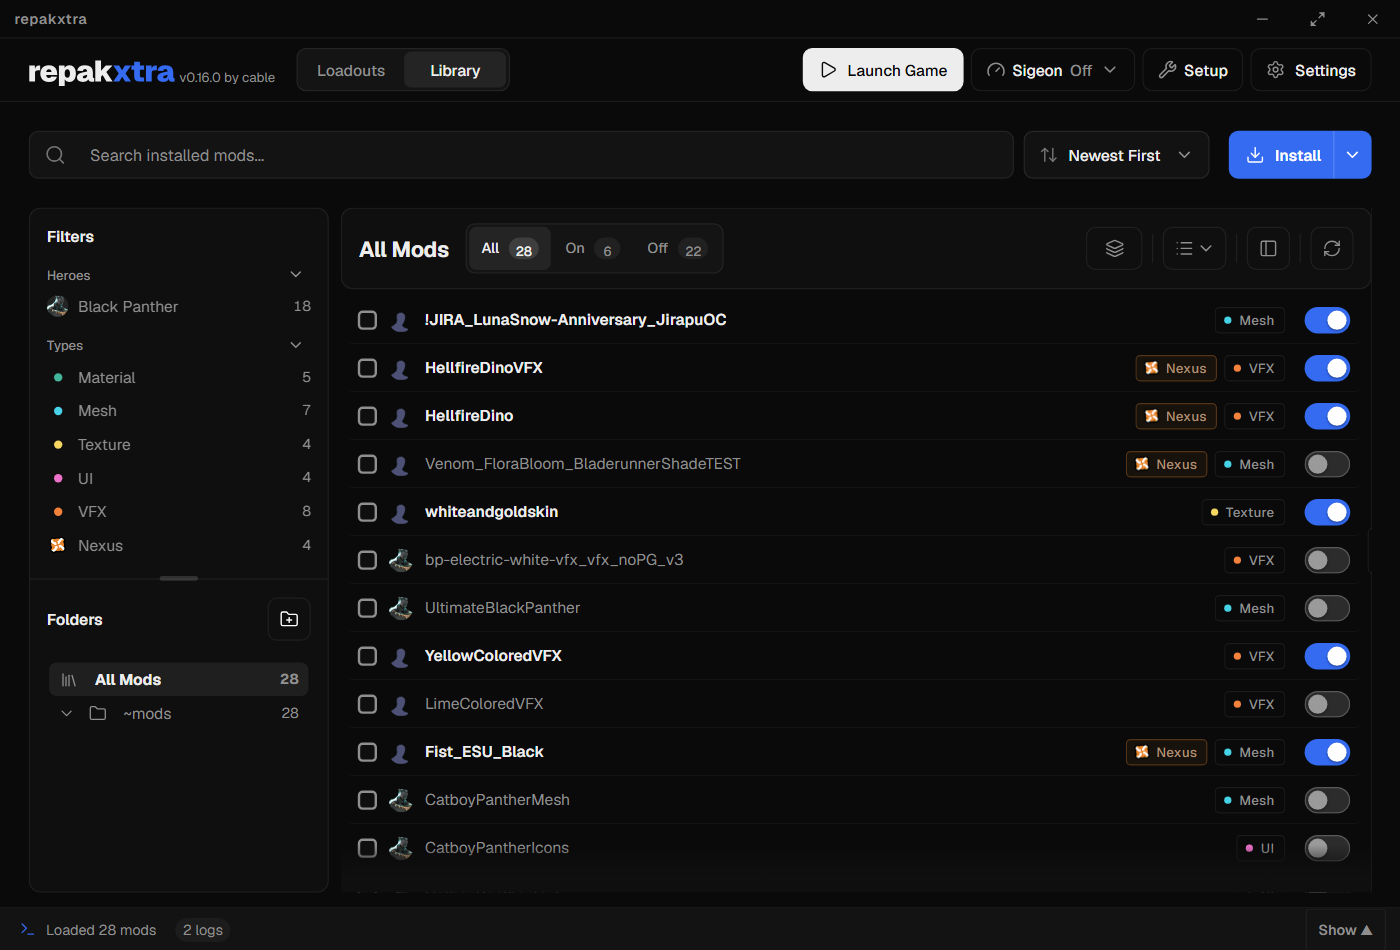
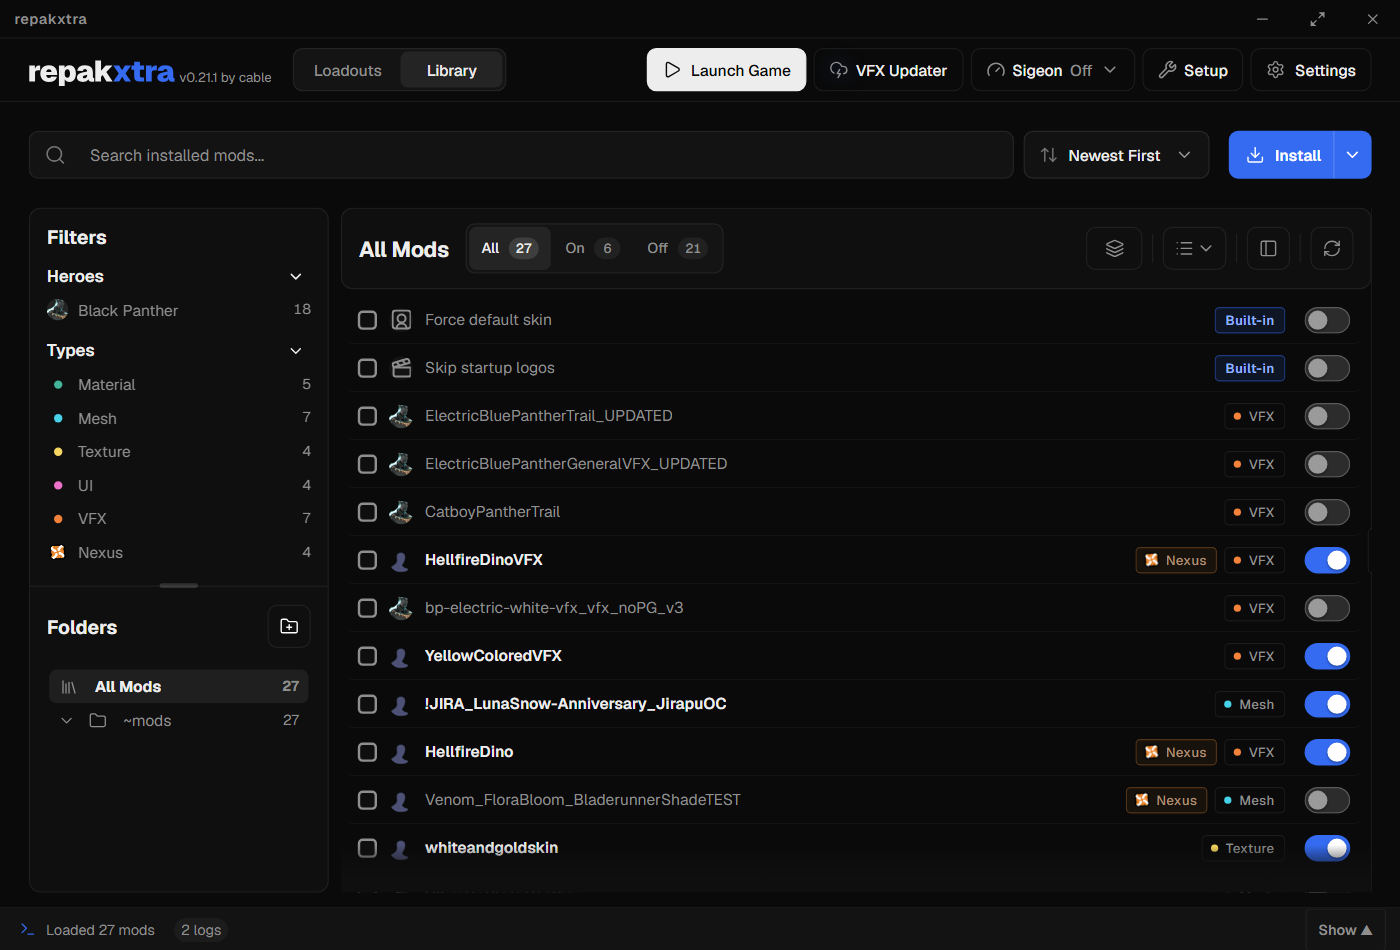
repakxtra 0.22.0: blue Add .utoc and a one-line VFX footer, Daredevil silhouette on install, centered count pills, built-ins shown, batch VFX guide (#42)
- VFX Updater: Add .utoc is blue with the Install icon, the time estimate sits beside the buttons, Check is now Scan,
  Copied stays 3 s
- Filters: Heroes and Types headers 14px, Filters and Folders titles 16px, above the 13px filters
- Toasts break long mod names inside the text column
- Count pills trim their line to cap height, so digits sit centered at any size
- Install card: a mod of a hero's base model (xxxx001, never in the hero data) finds its hero from its one hero folder,
  and the silhouette lookup also reads the app's current hero list (Daredevil was missing from the bundled one)
- Enter in the install card's name fields saves and leaves the field
- Copy setup report shows Copied for 3 s
- Built-in mods are shown by default
- README: How to batch update VFX mods, with a new GIF, and every screenshot and GIF regenerated

diff --git a/repak-x/src/custom/theme.css b/repak-x/src/custom/theme.css
@@ -219,7 +219,7 @@ button, input, select, textarea, .MuiButton-root { font-family: inherit !importa
 .filter-panel { display: flex; flex-direction: column; gap: 1px; }
 /* The head keeps one height (30px, room for Clear) with or without it, so picking a filter never moves the list under it */
 .fp-head { display: flex; align-items: center; justify-content: space-between; min-height: 30px; padding: 0 6px 6px; box-sizing: border-box; }
-.fp-title, .sidebar-header h3 { font-size: 13px !important; font-weight: 600 !important; color: var(--text-primary) !important; }
+.fp-title, .sidebar-header h3 { font-size: 16px !important; font-weight: 700 !important; color: var(--text-primary) !important; }   /* the panel titles, above the 14px Heroes and Types headers and the 13px filters */
 /* Clear: a small quiet pill (the app's 36px button floor made it a tall grey block) */
 .fp-clear { display: inline-flex !important; align-items: center; gap: 4px; height: 22px !important; min-height: 0 !important; padding: 0 9px !important;
   border: 1px solid var(--panel-border) !important; border-radius: 999px !important; background: transparent !important;
@@ -230,8 +230,8 @@ button, input, select, textarea, .MuiButton-root { font-family: inherit !importa
    the hero rows' skin chevrons, turned down while open */
 .fp-section-btn { display: flex !important; align-items: center; gap: 6px; width: 100%; height: auto !important; min-height: 0 !important;
   margin: 0 !important; border: none !important; border-radius: 6px !important; background: transparent !important; cursor: pointer;
-  color: var(--text-secondary) !important; font-size: 11px !important; font-weight: 500 !important; text-align: left; justify-content: flex-start !important; }
-.fp-section-btn:hover { color: var(--text-primary) !important; }
+  color: var(--text-primary) !important; font-size: 14px !important; font-weight: 600 !important; text-align: left; justify-content: flex-start !important; }   /* a step above the 13px filters under it */
+.fp-section-btn:hover { background: var(--quiet-hover) !important; }   /* already white, so hover shows as the rows' wash */
 .fp-section-caret { margin-left: auto; margin-right: 5px; transition: transform var(--acc-chevron, 150ms) var(--acc-ease, ease); }
 .fp-section-btn[aria-expanded="true"] .fp-section-caret { transform: rotate(90deg); }
 .fp-section-picked { padding: 0 6px; border-radius: 999px; background: var(--quiet-active); color: var(--text-primary); font-size: 10.5px; line-height: 16px; }
@@ -1970,6 +1970,7 @@ html[data-motion="off"] .t-matrix i { animation: none; opacity: 0.6; }
 /* Toasts: wider, so a title and an action fit on one line */
 .toast-container { width: 480px !important; max-width: calc(100vw - 32px); }
 .toast-item { max-width: none !important; }
+.toast-title, .toast-description { overflow-wrap: anywhere; }   /* a long mod name breaks inside the text column, never under the action */
 
 /* Loadout page rows: Add is a plain + like Remove's X */
 .row-add { color: var(--text-secondary) !important; }
@@ -2662,14 +2663,19 @@ html[data-motion="off"] .vfx-dot { animation: none; }
 .settings-live-note { font-size: 12.5px; color: var(--text-secondary); }
 
 /* ---------- Numbers in a colored bubble: one centering rule for all of them (the conflicts count, the All / On / Off
-   counts, a collection's count, the setup step numbers, the selection numbers). Grid centering inside a set height
-   (line-height 1 leaves no half-leading to push the digit up) and tabular digits, so a 1 sits in the middle of its
-   slot instead of left of it. ---------- */
-:is(.cf-count, .mod-state-count, .lo-group-count, .fr-num) { display: inline-grid !important; grid-auto-flow: column; place-items: center;
-  place-content: center; line-height: 1 !important; font-variant-numeric: tabular-nums; box-sizing: border-box; }
-.cf-count { height: 22px; min-width: 22px; padding: 0 7px !important; }
-.mod-state-count { height: 18px; min-width: 22px; padding: 4px 6px 0 !important; }   /* Geist's digits sit high in an 11px line: 4px on top centers their ink (measured) */
-.lo-group-count { height: 18px; min-width: 20px; }
+   counts, a collection's count, the setup step numbers, the selection numbers). Tabular digits, so a 1 sits in the
+   middle of its slot instead of left of it. The line is trimmed to the digits' own top and bottom (cap height to baseline), then padded evenly to the bubble's
+   height, so the ink is in the middle at every size and in every pill, with no per-pill nudge. ---------- */
+:is(.cf-count:not(.is-done), .mod-state-count, .lo-group-count, .fr-num:not(:has(svg)), .vf-grp-count, .fp-section-picked) { --pill-h: 18px;
+  display: inline-block !important; height: auto !important; box-sizing: border-box; line-height: 1 !important; text-align: center;
+  text-box: trim-both cap alphabetic; padding-block: calc((var(--pill-h) - 1cap) / 2) !important; font-variant-numeric: tabular-nums; }
+:is(.cf-count:not(.is-done), .mod-state-count, .lo-group-count, .fr-num:not(:has(svg)), .vf-grp-count, .fp-section-picked) > * { text-box: trim-both cap alphabetic; line-height: 1; }
+.cf-count:not(.is-done) { --pill-h: 22px; min-width: 22px; padding-inline: 7px !important; }
+.mod-state-count { min-width: 22px; padding-inline: 6px !important; }
+.lo-group-count { min-width: 20px; padding-inline: 7px !important; }
+.vf-grp-count { min-width: 20px; padding-inline: 6px !important; }
+.fp-section-picked { --pill-h: 16px; padding-inline: 6px !important; }
+.fr-num:not(:has(svg)) { --pill-h: 22px; width: 22px; padding-inline: 0 !important; }
 
 /* ---------- The Library's selection bar (cable, 2026-10-21): a drawer that slides out from under the All / On / Off
    header, its top tucked behind the header so it reads as the header's extension. The header's own surface and border,

diff --git a/repak-x/src/custom/vfx/VfxUpdaterWindow.tsx b/repak-x/src/custom/vfx/VfxUpdaterWindow.tsx
@@ -9,7 +9,7 @@
 import { useCallback, useEffect, useId, useRef, useState } from 'react'
 import { invoke } from '@tauri-apps/api/core'
 import { emit, emitTo, listen } from '@tauri-apps/api/event'
-import { AlertTriangle, Archive, Check, ChevronDown, ChevronRight, Copy, Map as MapIcon, Palette, Plus, RefreshCw, RotateCcw, ScrollText, Search, Tag, X } from 'lucide-react'
+import { AlertTriangle, Archive, Check, ChevronDown, ChevronRight, Copy, Download, Map as MapIcon, Palette, RefreshCw, RotateCcw, ScrollText, Search, Tag, X } from 'lucide-react'
 import TitleBar from '../../components/TitleBar'
 import { useGlobalTooltips } from '../../hooks/useGlobalTooltips'
 import Checkbox from '../../components/ui/Checkbox'
@@ -642,7 +642,7 @@ export function VfxUpdaterPanel() {
   const copy = async (what: 'report' | 'log') => {
     const text = what === 'log' ? logs.map(l => `[${l.time}] ${l.text}`).join('\n') : Object.values(runs).filter(r => r.report).map(r => reportText(r.report!)).join('\n\n')
     await navigator.clipboard.writeText(text).catch(() => {})
-    setCopied(what); setTimeout(() => setCopied(null), 1500)
+    setCopied(what); setTimeout(() => setCopied(null), 3000)
   }
 
   // the list: mods that need an update first, then A to Z or newest first
@@ -737,8 +737,8 @@ export function VfxUpdaterPanel() {
               <button type="button" aria-pressed={sort === 'name'} onClick={() => sortBy('name')}>A to Z</button>
             </div>
           </>}
-          <button type="button" className="lo-text-btn vf-add" disabled={busy || mods === null} onClick={() => void addUtoc()}
-            title="Update a mod this list does not show: choose its .utoc file"><Plus size={14} aria-hidden="true" /> Add .utoc…</button>
+          <button type="button" className="lo-text-btn is-primary vf-add" disabled={busy || mods === null} onClick={() => void addUtoc()}
+            title="Update a mod this list does not show: choose its .utoc file"><Download size={14} aria-hidden="true" /> Add .utoc</button>
         </div>
         {loadError && (
           <p className="vf-warn" role="alert">
@@ -876,7 +876,7 @@ export function VfxUpdaterPanel() {
           {/* Cancel beside the button, never in its place: a double-click on Update must not cancel the run */}
           {(busy || checkRun) && <button type="button" className="lo-text-btn" disabled={cancelling} onClick={stop} title="Esc">{cancelling ? 'Cancelling…' : 'Cancel'}</button>}
           {!busy && <button type="button" className="lo-text-btn" disabled={Boolean(checkRun) || !picked.size} onClick={() => void checkTicked()}
-            title="Whether the ticked mods' materials were built for this game version, whatever their dates say">{checkRun ? 'Checking…' : 'Check'}</button>}
+            title="Whether the ticked mods' materials were built for this game version, whatever their dates say">{checkRun ? 'Scanning…' : 'Scan'}</button>}
           <button type="button" className="btn-primary" disabled={busy || Boolean(checkRun) || Boolean(lock) || !todo} title={busy ? undefined : 'Ctrl+Enter'}
             ref={el => { if (el && !busy) updateWidth.current = el.offsetWidth }} style={busy ? { minWidth: updateWidth.current } : undefined} onClick={() => run()}>
             <RefreshCw size={14} aria-hidden="true" className={busy ? 'vf-spin' : undefined} />{busy ? 'Updating…' : todo ? <>Update <Num id="vf-todo" value={todo} /> {todo === 1 ? 'mod' : 'mods'}</> : 'Update'}

diff --git a/repak-x/src/custom/InstallPanel.tsx b/repak-x/src/custom/InstallPanel.tsx
@@ -89,13 +89,14 @@ export const plainName = (name = '') => name.replace(/\.(pak|off|zip|rar|7z)$/i,
 
 /** Pure: a name field's value once Enter commits it: trimmed, and empty means the suggested name (null). */
 export const committedName = (v: string) => v.trim() || null
-/** Enter in a name field commits the name and stays there: it never installs (only the Install button does). An IME
+/** Enter in a name field commits the name and leaves the field: it never installs (only the Install button does). An IME
  *  finishing a word with Enter is left alone. */
 const enterCommits = (commit: () => void) => (e: React.KeyboardEvent<HTMLInputElement>) => {
   if (e.key !== 'Enter' || e.nativeEvent.isComposing) return
   e.preventDefault()
   e.stopPropagation()
   commit()
+  e.currentTarget.blur()
 }
 
 const badge = (s: string) => `${s.toLowerCase().replace(/\s+/g, '-')}-badge`
@@ -216,7 +217,7 @@ export default function InstallPanel({ mods, folders = [], currentFolderId, onCr
   }, [mods]) // eslint-disable-line react-hooks/exhaustive-deps
   const heroOf = (i: number) => parsed[i].character?.split(' - ')[0] ?? tableHero[mods[i].path] ?? undefined
   // The cover's hero: the one the picked mods share, else the first picked mod's (a mod of no hero: no shape)
-  const coverShape = silhouetteOf(picked.map(heroOf).find(h => h && !h.startsWith('Multiple')))
+  const coverShape = silhouetteOf(picked.map(heroOf).find(h => h && !h.startsWith('Multiple')), heroes)
   const suggestion = suggestName(picked.map(i => ({ name: settings[i]?.customName || plainName(mods[i].mod_name), character: parsed[i].character })))
   const existing = target === NEW || target === NONE ? undefined : loadouts.find(l => l.id === target)
   const into = target === NONE ? NONE : existing?.id ?? NEW // a loadout deleted while the dialog was open: back to a new one

diff --git a/repak-x/src/custom/vfx/vfx.css b/repak-x/src/custom/vfx/vfx.css
@@ -18,6 +18,7 @@
 .vf-search input::placeholder { color: var(--text-secondary); opacity: 1; }
 .vf-search-clear { flex: none; width: 26px; height: 26px !important; min-height: 0 !important; }
 .vf-body .vf-add { flex: none; margin-left: auto; height: auto !important; min-height: 32px !important; } /* as tall as the search beside it */
+.vf-body .vf-add:hover:not(:disabled) { background: color-mix(in srgb, var(--accent-primary), white 12%) !important; border-color: color-mix(in srgb, var(--accent-primary), white 12%) !important; } /* stays blue on hover */
 
 /* a group: its heading folds it away (the Loadouts screen's collections), Select all sits at the far end */
 .vf-grp-head { display: flex; align-items: center; gap: 12px; height: 32px; margin-bottom: 8px; }
@@ -192,7 +193,7 @@ button.vf-assets-toggle:hover { color: var(--text-primary) !important; }
 
 .vf-foot { position: relative; display: flex; flex-wrap: wrap; align-items: center; gap: 8px 16px; padding: 12px 24px; border-top: 1px solid var(--panel-border); }
 /* the note has its own row above the buttons and wraps there: never cut off, never squeezed beside them */
-.vf-state { flex: 1 1 100%; min-width: 0; margin: 0; font-size: 12.5px; line-height: 1.5; color: var(--text-secondary); text-wrap: pretty; }
+.vf-state { flex: 1 1 280px; min-width: 0; margin: 0; font-size: 12.5px; line-height: 1.5; color: var(--text-secondary); text-wrap: pretty; }
 .vf-foot-actions { flex: none; margin-left: auto; display: flex; align-items: center; gap: 8px; }
 .vf-spin { animation: vf-spin 1.1s linear infinite; }
 @keyframes vf-spin { to { transform: rotate(360deg); } }

diff --git a/repak-x/src/custom/uiPrefs.tsx b/repak-x/src/custom/uiPrefs.tsx
@@ -26,7 +26,7 @@ const PREFS: { key: string; label: string; on?: boolean; group?: 'header' | 'mod
   { key: 'conflicts', label: 'Conflict warnings (the badge, and the count on Check Conflicts)', on: true, group: 'warn' },
   { key: 'quick-organize', label: 'Show Quick Organize when dropping files on the window' }, // shown under Installing mods
   { key: 'new-strip', label: 'New this week on the Loadouts screen' }, // off by default (NewStripPref)
-  { key: 'builtins', label: 'Built-in mods on the Loadouts screen and in the Library' }, // hidden by default (BuiltinsPref)
+  { key: 'builtins', label: 'Built-in mods on the Loadouts screen and in the Library', on: true }, // shown by default (BuiltinsPref)
 ]
 
 // 100% draws the app at the webview's 120% (what was the old 125% step, a little smaller); the rest scale from there.
@@ -332,7 +332,7 @@ export function NewStripPref() {
   )
 }
 
-/** Settings > Library: Hide built-in mods, checked (hidden) until switched off. */
+/** Settings > Library: Hide built-in mods, unchecked (shown) until switched on. */
 export function BuiltinsPref() {
   const shown = useUiPref('builtins')
   return (
@@ -344,8 +344,6 @@ export function BuiltinsPref() {
     </div>
   )
 }
-/** Someone who turned a built-in on before the setting existed keeps seeing them, once (BuiltinMods.tsx). */
-export const keepBuiltinsShown = () => { if (savedItem(storageKey('builtins')) === null) update(storageKey('builtins'), '1') }
 
 /** Warnings: the show/hide prefs that flag a mod (Broken, May crash, conflicts), their own section under On each mod. */
 export function WarningPrefs() {

diff --git a/repak-x/src/custom/CopySetupReport.tsx b/repak-x/src/custom/CopySetupReport.tsx
@@ -1,7 +1,7 @@
 // repakxtra: the Copy setup report button (Settings > Help & Community, and Setup). Text is built in setupReport.ts.
 import { useState } from 'react'
 import { invoke } from '@tauri-apps/api/core'
-import { ClipboardCopy } from 'lucide-react'
+import { Check, ClipboardCopy } from 'lucide-react'
 import type { useAlert } from '../components/AlertHandler'
 import { DISCORD_LIMIT, gatherReport } from './setupReport'
 
@@ -24,11 +24,13 @@ async function saveTxt(text: string, alert: Alert) {
 
 export default function CopySetupReport({ alert, className = 'action-btn' }: { alert: Alert; className?: string }) {
   const [busy, setBusy] = useState(false)
+  const [copied, setCopied] = useState(false)
   const run = async () => {
     setBusy(true)
     try {
       const text = await gatherReport()
       await copy(text)
+      setCopied(true); setTimeout(() => setCopied(false), 3000)
       if (text.length <= DISCORD_LIMIT) {
         alert.success('Setup report copied', 'Paste it in your Discord help message.')
         return
@@ -46,7 +48,7 @@ export default function CopySetupReport({ alert, className = 'action-btn' }: { a
   return (
     <button type="button" className={className} disabled={busy} onClick={run}
       title="Copies your setup and the mods that are on, ready to paste in a help channel. No folder paths or user name.">
-      <ClipboardCopy size={14} /> {busy ? 'Copying…' : 'Copy setup report'}
+      {copied ? <Check size={14} /> : <ClipboardCopy size={14} />} {busy ? 'Copying…' : copied ? 'Copied' : 'Copy setup report'}
     </button>
   )
 }

diff --git a/repak-x/src/custom/silhouettes.ts b/repak-x/src/custom/silhouettes.ts
@@ -11,11 +11,13 @@ export const heroLabel = (name: string) => name.replace(/\s*\([^)]*\)\s*$/, '').
 const norm = (name: string) => heroLabel(name).toLowerCase()
 const idOf = new Map((bundledHeroes as { name: string; id: string }[]).map(h => [norm(h.name), h.id]))
 
-/** The silhouette for a hero by name ("Black Panther", "Iron Fist (lin Lie)"), or undefined. */
-export const silhouetteOf = (hero?: string | null) => {
-  const id = hero ? idOf.get(norm(hero)) : undefined
-  return id ? SILHOUETTES[`./covers/silhouettes/${id}.webp`] : undefined
-}
+/** The silhouette for a hero id ("1055"), or undefined: for heroes newer than the bundled hero list (Daredevil). */
+const silhouetteById = (id?: string | null) => (id ? SILHOUETTES[`./covers/silhouettes/${id}.webp`] : undefined)
+
+/** The silhouette for a hero by name ("Black Panther", "Iron Fist (lin Lie)"), or undefined. A list of heroes newer than
+ *  the bundled one (the app's character data) finds the ones it lacks. */
+export const silhouetteOf = (hero?: string | null, heroes?: { name: string; id: string }[]) =>
+  hero ? silhouetteById(idOf.get(norm(hero)) ?? heroes?.find(h => norm(h.name) === norm(hero))?.id) : undefined
 
 /** A loadout's hero: the most common one among its mods ("Hero - Skin" counts as the hero), or undefined. The mod list's
  *  own character name stands in until the details load (a mod installed a moment ago has none yet). */

diff --git a/repak-x/src/custom/BuiltinMods.tsx b/repak-x/src/custom/BuiltinMods.tsx
@@ -14,7 +14,6 @@ import { savedItem } from './storageCarryOver'
 import { setView } from './loadoutStore'
 import { ClapperboardIcon, PortraitCardIcon, type BuiltinIconComponent } from './PixelIcon'
 import { cue } from './sounds'
-import { keepBuiltinsShown } from './uiPrefs'
 
 export type Builtin = { id: string; on: boolean; excluded: string[]; current: boolean; active: boolean; builtAt?: number; summary?: string; heroes: string[]; error?: string; path: string; size: number }
 
@@ -56,7 +55,7 @@ export function revealBuiltin(id: string) {
   setView('home')
   emit()
 }
-const load = () => invoke<Builtin[]>('xtra_builtins_list').then(v => { list = v; if (v.some(b => b.on)) keepBuiltinsShown(); emit() }).catch(e => console.warn('[builtins]', e))
+const load = () => invoke<Builtin[]>('xtra_builtins_list').then(v => { list = v; emit() }).catch(e => console.warn('[builtins]', e))
 
 /** Rebuild the ones that are on but not current (a game update, a hero change a failed build left behind). Skipped while
  *  the game runs (its files are locked): at start from App.tsx, and from the section once the game closes. */

diff --git a/repak-x/src/custom/LoadoutsScreen.tsx b/repak-x/src/custom/LoadoutsScreen.tsx
@@ -191,7 +191,7 @@ const LoadoutCard = memo(function LoadoutCard({ p, l, groupBy, canGenerate, busy
 
 export default function LoadoutsScreen(p: LoadoutProps) {
   const newStrip = useUiPref('new-strip') // Settings > Library > Show New this week, off by default
-  const builtins = useUiPref('builtins') // Settings > Library > Hide built-in mods, hidden by default
+  const builtins = useUiPref('builtins') // Settings > Library > Hide built-in mods, shown by default
   const view = useView()
   const loadouts = useLoadouts()
   // Search: kept while a loadout's page is open, so Back returns to the same results

diff --git a/repak-x/src/custom/version.ts b/repak-x/src/custom/version.ts
@@ -1,6 +1,6 @@
 // repakxtra: repakxtra's own version, bumped for each repakxtra release. The Repak X version it is built on still comes
 // from Cargo (get_app_version).
-export const REPAKXTRA_VERSION = '0.21.1'
+export const REPAKXTRA_VERSION = '0.22.0'
 
 /** Which copy this is. "dev": the live dev copy (dev.ps1, or the browser preview), served by Vite. "test": made with
  *  `build.ps1 -Test`, which sets VITE_REPAKXTRA_TEST for the frontend build. Both mark themselves: the "xtra" in the app

diff --git a/repak-x/src/xtra_builtins.rs b/repak-x/src/xtra_builtins.rs
@@ -691,7 +691,41 @@ fn changed_heroes(game: &Value, modded: &Value) -> Vec<String> {
 #[tauri::command]
 pub async fn xtra_skin_table_hero(mod_path: String, state: State<'_, Arc<Mutex<AppState>>>) -> Result<Option<String>, String> {
     let (_, paks) = dirs_of(state.inner())?;
-    table_hero(&mod_path, &paks).await
+    if let Some(id) = table_hero(&mod_path, &paks).await? {
+        return Ok(Some(id));
+    }
+    // a mod of a hero's base model (its xxxx001 skin, which the hero data never lists) names no skin: its one hero folder does
+    let utoc = PathBuf::from(&mod_path).with_extension("utoc");
+    if !utoc.is_file() {
+        return Ok(None);
+    }
+    let files = tauri::async_runtime::spawn_blocking(move || crate::utoc_utils::try_read_utoc(&utoc)).await.map_err(|e| e.to_string())??;
+    Ok(only_hero_folder(files.iter().map(|f| f.file_path.as_str())))
+}
+
+/// The hero id when every `Characters/<id>/` folder in the paths is the same hero, else None.
+fn only_hero_folder<'a>(paths: impl Iterator<Item = &'a str>) -> Option<String> {
+    let ids: HashSet<&str> = paths
+        .filter_map(|p| {
+            let mut parts = p.split(['/', '\\']);
+            parts.find(|s| s.eq_ignore_ascii_case("Characters"))?;
+            parts.next().filter(|id| id.len() == 4 && id.bytes().all(|b| b.is_ascii_digit()))
+        })
+        .collect();
+    (ids.len() == 1).then(|| ids.into_iter().next().unwrap().to_string())
+}
+
+#[cfg(test)]
+mod only_hero_folder_tests {
+    use super::only_hero_folder;
+    #[test]
+    fn one_hero_folder_names_the_hero() {
+        let one = ["/Game/Marvel/Characters/1055/1055001/Meshes/SK_1055_1055001.uasset", "/Game/Marvel/Characters/1055/1055001/Blueprints/1055001_ChildBP.uasset"];
+        assert_eq!(only_hero_folder(one.into_iter()), Some("1055".into()));
+        let two = ["/Game/Marvel/Characters/1055/x.uasset", "/Game/Marvel/Characters/1033/y.uasset"];
+        assert_eq!(only_hero_folder(two.into_iter()), None);
+        assert_eq!(only_hero_folder(["/Game/Marvel/Characters/Common/z.uasset"].into_iter()), None);
+    }
 }
 
 pub(crate) async fn table_hero(mod_path: &str, paks: &Path) -> Result<Option<String>, String> {

diff --git a/README.md b/README.md
@@ -80,6 +80,32 @@ in the game.
 
 <img src=".github/screenshots/guide-first-loadout.gif" alt="Making a loadout called Ultimate, adding a mod, generating its preview and turning it on" width="100%">
 
+## How to batch update VFX mods
+
+A game update can break VFX mods and mods that change materials, like a skin's glow or shine: colors go wrong or the
+game crashes. The VFX Updater rebuilds them on the new game files, many at once.
+
+1. **Close Marvel Rivals.**
+2. **Open the VFX Updater.** Click **VFX Updater** at the top. A yellow dot on it means some of your mods need an update.
+3. **Check what is ticked.** Mods that need an update are ticked already, under **Needs an update**. To add others,
+   tick them under **Other VFX mods** or **Material mods**, or click **Select all** on a group. Not sure about a mod?
+   Tick it and click **Scan**: it checks whether its materials were made for this game version, whatever its date says.
+4. **Missing a mod?** Click **Add .utoc** and pick its `.utoc` file, or right-click it in the Library and click
+   **For modders > Send to VFX Updater**.
+5. **Click Update** (or press `Ctrl+Enter`). The line at the bottom says about how long it will take, and each mod
+   shows its progress as it goes. **Cancel** (or `Esc`) stops the run.
+6. **Check the result.** Finished mods move down to **Updated**. The updated copy keeps the mod's name, loadouts and
+   tags. The original is turned off and renamed to end in `_BROKEN`. Click **Change** at the bottom to pick another
+   way: move originals to **Recently deleted**, or leave them as they are. **Copy report** copies what each update did.
+7. **Launch the game** and check your mods.
+
+<img src=".github/screenshots/guide-vfx-batch.gif" alt="Opening the VFX Updater with the mods that need an update ticked, clicking Update and watching each mod finish" width="100%">
+
+> [!NOTE]
+> The VFX Updater needs a USMAP that matches the game, and it fetches the newest one by itself. Right after a game
+> update one may not be out yet: mods with Niagara effects then update partly, and their original stays, off, so you
+> can update them fully later. **Check for updates** in the VFX Updater looks for a newer USMAP.
+
 ## Features
 
 **Loadouts**
